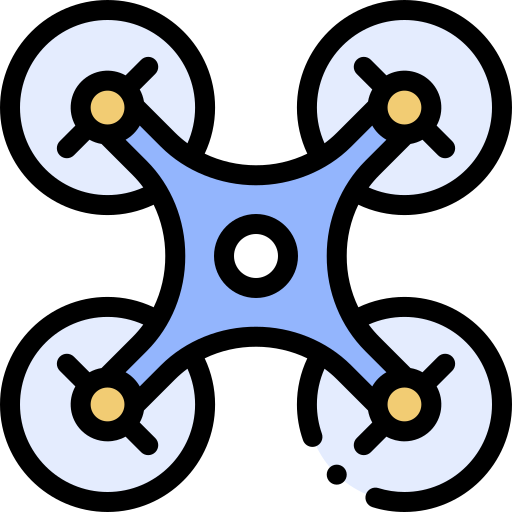
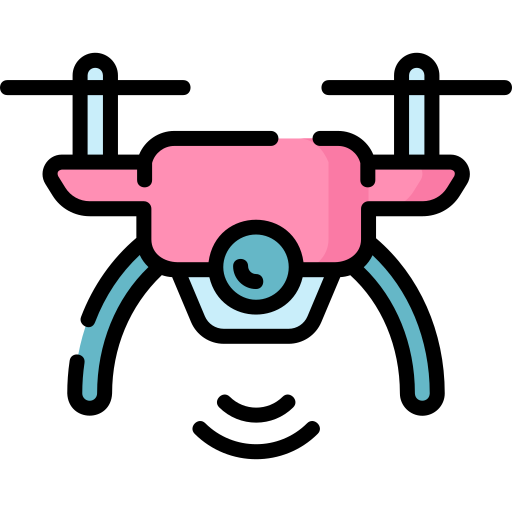
update: img, makefile, init; delete: comment, my_inval_map_13

diff --git a/main.py b/main.py
@@ -2,7 +2,6 @@
 
 import sys
 import os
-# import traceback
 
 from src.parsers import MapParser, ArgParser
 from src.models import Drone
@@ -19,17 +18,14 @@ def main() -> None:
 
     try:
         args = ArgParser.parse_args()
-        # print(f"Loading map from: {args.map}")
         parser = MapParser(args.map)
         graph, nb_drones = parser.parse_map()
 
         drones = Drone.create_fleet(nb_drones, graph.start_zone_name)
-        # print(f"drones => {drones}")
         cm = CollisionManager(graph)
         algorithms = CooperativeAStar(graph, cm)
 
         for drone in drones:
-            # print(f"drone => {drone}")
 
             path = algorithms.plan_route(
                 graph.start_zone_name, graph.end_zone_name
@@ -39,9 +35,7 @@ def main() -> None:
 
             drone.path = path
             cm.register_path(path)
-            # print(f"✅ {drone.id}: {path}")
 
-        # print("----------simulations-----------")
         controller = SimulationController(drones)
         controller.run()
 
@@ -57,12 +51,10 @@ def main() -> None:
     except FileNotFoundError as e:
         print(f"{RED}Error: Map file not found. {e}.{RESET}",
               file=sys.stderr)
-        # traceback.print_exc()
         sys.exit(1)
     except ValueError as e:
         print(f"{RED}Map Format Error: {e}.{RESET}",
               file=sys.stderr)
-        # traceback.print_exc()
         sys.exit(1)
     except VisualizationError as e:
         print(f"{RED}Visualization Error: {e}{RESET}", file=sys.stderr)
@@ -70,7 +62,6 @@ def main() -> None:
     except Exception as e:
         print(f"{RED}Unexpected Error: {e}{RESET}",
               file=sys.stderr)
-        # traceback.print_exc()
         sys.exit(1)
 
 

diff --git a/src/algorithms/cooper_A_star.py b/src/algorithms/cooper_A_star.py
@@ -33,14 +33,11 @@ class CooperativeAStar:
         all other zones using simple BFS."""
         distances: dict[str, float] = {target_zone: 0.0}
         queue = deque([target_zone])
-        # print(f"queue => {queue}")
 
         while queue:
             current = queue.popleft()
-            # print(f"current => {current}")
 
             for neighbor, _, _ in self.graph.get_neighbors(current):
-                # print(f"neighbor => {neighbor}")
                 if neighbor.name not in distances:
                     distances[neighbor.name] = distances[current] + 1.0
                     queue.append(neighbor.name)
@@ -115,7 +112,6 @@ class CooperativeAStar:
         i = 0
         while open_set:
             i = i + 1
-            # print(f"open_set {i} turn =========> {open_set}")
             f_score, _, g_cost, turn, current_zone, path = heapq.heappop(
                 open_set)
 

diff --git a/src/controllers/simulation.py b/src/controllers/simulation.py
@@ -49,8 +49,7 @@ class SimulationController:
         max_turn = 0
         for drone in self.drones:
             if not drone.path:
-                raise ValueError(f"Path for Drone {drone.id!r} does not exist")
-            # print(f"drone in simulation => {drone.path}")
+                raise ValueError(f"Path for Drone {drone.id} does not exist")
 
             max_item = drone.path[-1][1]
             if max_item > max_turn:

diff --git a/src/__init__.py b/src/__init__.py
@@ -1,11 +1,15 @@
 """Fly-in drone-routing simulation package."""
 
+import os
+
 from .parsers import MapParser
 from .parsers import ArgParser
 from .models import Drone
 from .algorithms import CollisionManager
 from .algorithms import CooperativeAStar
 from .controllers import SimulationController
+
+os.environ["PYGAME_HIDE_SUPPORT_PROMPT"] = "1"
 
 __all__ = [
     "MapParser",

diff --git a/tests/test_models.py b/tests/test_models.py
@@ -118,5 +118,3 @@ def test_graph_creation_and_neighbors() -> None:
     assert graph.end_zone_name == "end"
     neighbors = graph.get_neighbors("hub1")
     assert [zone.name for zone, _, _ in neighbors] == ["start", "end"]
-
-# Graph.model_rebuild()

diff --git a/README.md b/README.md
@@ -324,4 +324,4 @@ AI assistants (such as Codex / Gemini) were used during the development of this 
 * **Algorithm Comprehension & Design:** AI helped clarify Cooperative Space-Time A* pathfinding, including `(zone, turn)` states and a reverse BFS distance heuristic. 
 * **Debugging & Edge Cases:** Assisting in identifying and resolving edge cases across the codebase, such as infinite wait loops on disconnected graphs.
 * **Visuals & Rendering:** AI helped structure the `Pygame` visualization layer, including dynamic window resizing (`VIDEORESIZE`), smooth movement interpolation between turns.
-- **Documentation**: Structuring and drafting the initial layout of this `README.md` file and writing docstrings.
+* **Documentation**: Structuring and drafting the initial layout of this `README.md` file and writing docstrings.
